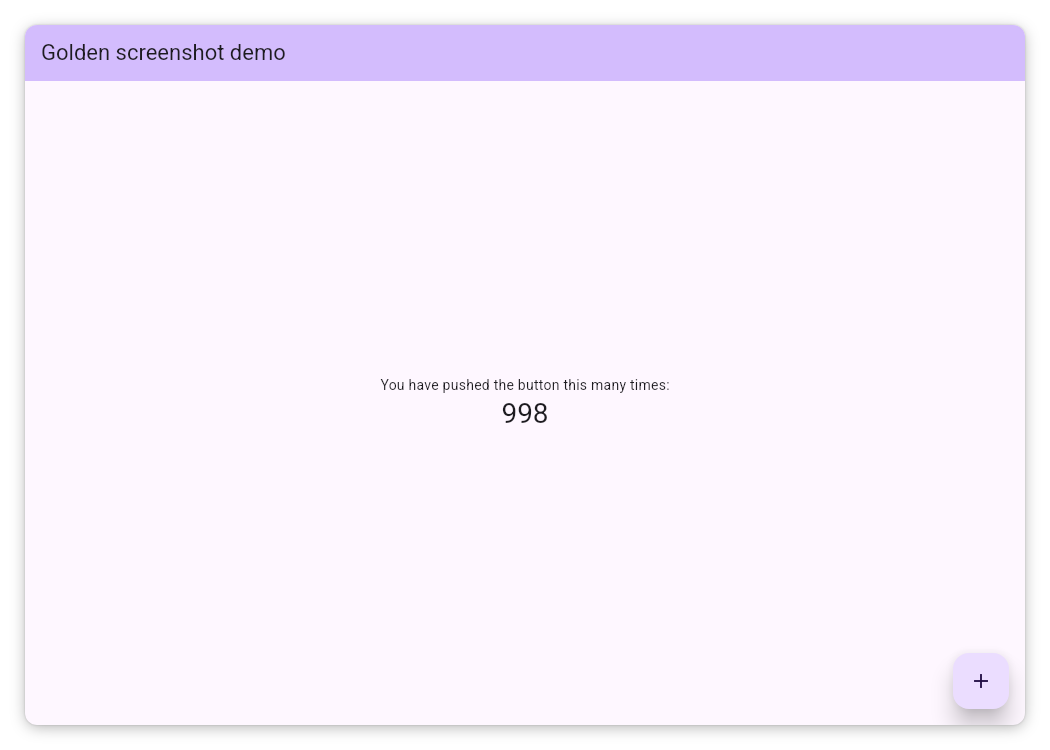
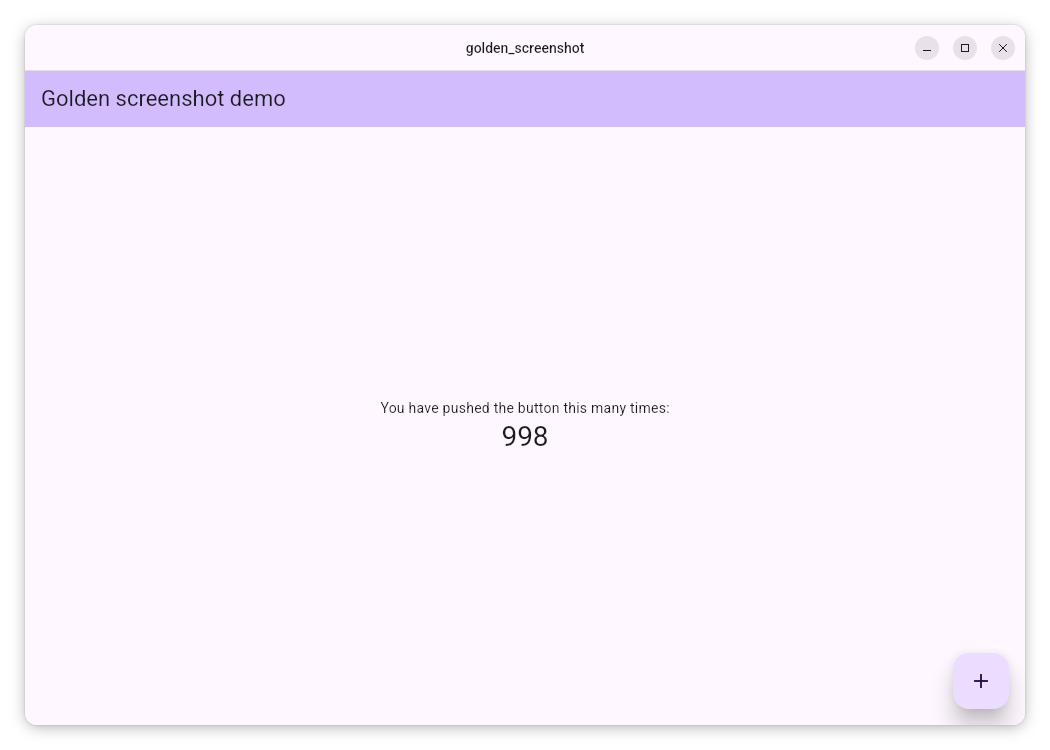
feat: add ScreenshotConditionalTitlebar for linux title bar

Changed region(s): [[0.0, 0.0307, 0.9752, 0.184], [0.3657, 0.4907, 0.64, 0.6133]]

diff --git a/lib/src/screenshot_titlebar.dart b/lib/src/screenshot_titlebar.dart
@@ -1,0 +1,65 @@
+import 'package:flutter/material.dart';
+import 'package:golden_screenshot/golden_screenshot.dart';
+import 'package:yaru/yaru.dart';
+
+/// A widget that shows a titlebar if [device] requires it.
+///
+/// For Linux and Windows devices, it shows a titlebar from the Yaru package.
+/// For other platforms, it simply returns [child] without modification.
+///
+/// Example usage:
+/// ```dart
+/// tester.pumpWidget(ScreenshotApp(
+///   device: myDevice,
+///   home: ScreenshotConditionalTitlebar(
+///     title: Text('My App'),
+///     device: myDevice,
+///     child: MyApp(),
+///   ),
+/// ));
+/// ```
+class ScreenshotConditionalTitlebar extends StatelessWidget {
+  const ScreenshotConditionalTitlebar({
+    super.key,
+    required this.title,
+    required this.device,
+    required this.child,
+  }) : titleBar = null;
+
+  const ScreenshotConditionalTitlebar.manual({
+    super.key,
+    required this.titleBar,
+    required this.device,
+    required this.child,
+  }) : title = null;
+
+  final PreferredSizeWidget? titleBar;
+  final Widget? title;
+  final ScreenshotDevice device;
+  final Widget child;
+
+  @override
+  Widget build(BuildContext context) {
+    final yaruPlatform = switch (device.platform) {
+      TargetPlatform.linux => YaruWindowControlPlatform.yaru,
+      TargetPlatform.windows => YaruWindowControlPlatform.windows,
+      _ => null,
+    };
+    if (yaruPlatform == null) {
+      return child;
+    }
+
+    return Scaffold(
+      appBar: titleBar ??
+          YaruWindowTitleBar(
+            title: title,
+            isActive: true,
+            isClosable: true,
+            isMaximizable: true,
+            isMinimizable: true,
+            platform: yaruPlatform,
+          ),
+      body: child,
+    );
+  }
+}

diff --git a/example/test/screenshots_test.dart b/example/test/screenshots_test.dart
@@ -61,7 +61,11 @@ void _screenshotWidget({
         final widget = ScreenshotApp(
           theme: theme,
           device: device,
-          home: child,
+          home: ScreenshotConditionalTitlebar(
+            title: Text('golden_screenshot'),
+            device: device,
+            child: child,
+          ),
         );
         await tester.pumpWidget(widget);
 

diff --git a/lib/golden_screenshot.dart b/lib/golden_screenshot.dart
@@ -8,4 +8,5 @@ export 'src/screenshot_device.dart';
 export 'src/screenshot_devices.dart';
 export 'src/screenshot_frame.dart';
 export 'src/screenshot_tester.dart';
+export 'src/screenshot_titlebar.dart';
 export 'src/test_goldens.dart';

diff --git a/lib/src/screenshot_frame.dart b/lib/src/screenshot_frame.dart
@@ -1,6 +1,5 @@
 import 'package:flutter/material.dart';
 import 'package:golden_screenshot/src/screenshot_device.dart';
-import 'package:yaru/yaru.dart';
 
 /// A builder that can add a top and bottom bar to its [child].
 ///
